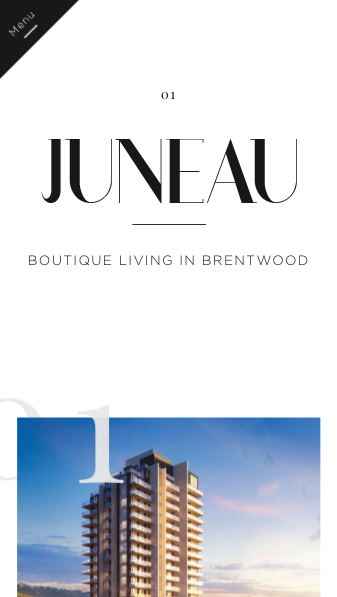
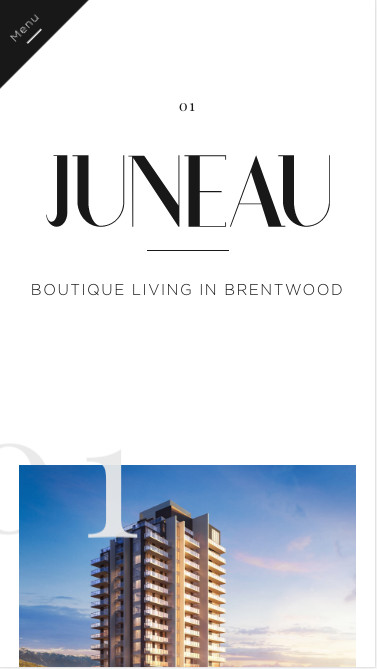
Project: Mobile pictures added

diff --git a/src/Components/ProjectTemplate/Template.js b/src/Components/ProjectTemplate/Template.js
@@ -27,7 +27,7 @@ const Title = styled.h1`
 `;
 
 const Banner = styled.div`
-  height: 60vh;
+  height: 40vh;
   width: 100%;
   margin: 30px 0;
   background-position: center center;
@@ -35,6 +35,9 @@ const Banner = styled.div`
   background-size: cover;
   /* background-color: rgba(0, 0, 0, 0.5); */
   /* background-blend-mode: multiply; */
+  @media (min-width: 768px) {
+    height: 60vh;
+  }
 `;
 
 const InfoContainer = styled.div`
@@ -44,6 +47,9 @@ const InfoContainer = styled.div`
   display: flex;
   flex-wrap: wrap;
   margin-top: 60px;
+  @media (min-width: 768px) {
+    margin-top: 100px;
+  }
   p {
     max-width: 580px;
     width: 100%;
@@ -107,7 +113,7 @@ const ButtonGradient = styled(Link)`
   background: linear-gradient(-134deg, #3fdfa4 0%, #3e45b9 100%);
   padding: 15px 30px;
   position: fixed;
-  right: 5%;
+  right: 4.9%;
   bottom: 0;
   color: #fff;
   z-index: 10;
@@ -130,7 +136,7 @@ const VideoContent = styled.div`
     z-index: 1;
     height: 63.5%;
     top: 5%;
-    width: 94.9%;
+    width: 100%;
     left: 50%;
     transform: translateX(-50%);
   }
@@ -144,7 +150,7 @@ const VideoContent = styled.div`
 
 const MobileContainer = styled.div`
   padding: 100px 0;
-  background-color: #000;
+  background-color: #3A3B3E;
   display: flex; 
   flex-flow: row wrap;
   justify-content: space-around;
@@ -164,7 +170,7 @@ const MobileContainer = styled.div`
   .screenshot {
     position: absolute;
     top: 50px;
-    left: 8px;
+    left: 12px;
     z-index: 1;
     max-width: 90%;
   }
@@ -237,7 +243,6 @@ class Template extends React.Component {
             <img className="screenshot" src={this.props.iphone[2]} alt=""/>
             <img className="iphone" src="./assets/img/iphone.png" alt="iPhone"/>
           </div>
-
         </MobileContainer>
       </ProjectTemplate>
     );

diff --git a/src/Pages/Projects/Juneau/Juneau.js b/src/Pages/Projects/Juneau/Juneau.js
@@ -5,6 +5,8 @@ import styled from 'styled-components';
 
 import Template from '../../../Components/ProjectTemplate';
 
+const pageName = 'juneau'
+
 class JuneauPage extends React.Component {
   constructor(props) {
     super(props);
@@ -43,9 +45,9 @@ class JuneauPage extends React.Component {
       buttonLink: 'https://amacon.com/juneau/',
       videoSrc: './assets/video/juneau.mp4',
       iphone: [
-        './assets/img/juneau/mobile-1.png',
-        './assets/img/juneau/mobile-2.png',
-        './assets/img/juneau/mobile-3.png',
+        `./assets/img/${pageName}/mobile-1.png`,
+        `./assets/img/${pageName}/mobile-2.png`,
+        `./assets/img/${pageName}/mobile-3.png`,
       ]
     };
   }

diff --git a/src/Pages/Projects/Landmark/Landmark.js b/src/Pages/Projects/Landmark/Landmark.js
@@ -44,6 +44,11 @@ class LandmarkPage extends React.Component {
       ],
       buttonLink: 'https://amacon.com/juneau/',
       videoSrc: `./assets/video/${pageName}.mp4`,
+      iphone: [
+        `./assets/img/${pageName}/mobile-1.png`,
+        `./assets/img/${pageName}/mobile-2.png`,
+        `./assets/img/${pageName}/mobile-3.png`,
+      ]
     };
   }
   render() {
@@ -56,6 +61,7 @@ class LandmarkPage extends React.Component {
           details={this.state.details}
           buttonLink={this.state.buttonLink}
           videoSrc={this.state.videoSrc}
+          iphone={this.state.iphone}
         />
       </section>
     );

diff --git a/src/Pages/Projects/Elenore/Elenore.js b/src/Pages/Projects/Elenore/Elenore.js
@@ -44,6 +44,11 @@ class ElenorePage extends React.Component {
       ],
       buttonLink: 'https://amacon.com/juneau/',
       videoSrc: `./assets/video/${pageName}.mp4`,
+      iphone: [
+        `./assets/img/${pageName}/mobile-1.png`,
+        `./assets/img/${pageName}/mobile-2.png`,
+        `./assets/img/${pageName}/mobile-3.png`,
+      ]
     };
   }
   render() {
@@ -56,6 +61,7 @@ class ElenorePage extends React.Component {
           details={this.state.details}
           buttonLink={this.state.buttonLink}
           videoSrc={this.state.videoSrc}
+          iphone={this.state.iphone}
         />
       </section>
     );

diff --git a/src/Pages/Projects/Gryphon/Gryphon.js b/src/Pages/Projects/Gryphon/Gryphon.js
@@ -44,6 +44,11 @@ class GryphonPage extends React.Component {
       ],
       buttonLink: 'https://amacon.com/juneau/',
       videoSrc: `./assets/video/${pageName}.mp4`,
+      iphone: [
+        `./assets/img/${pageName}/mobile-1.png`,
+        `./assets/img/${pageName}/mobile-2.png`,
+        `./assets/img/${pageName}/mobile-3.png`,
+      ]
     };
   }
   render() {
@@ -56,6 +61,7 @@ class GryphonPage extends React.Component {
           details={this.state.details}
           buttonLink={this.state.buttonLink}
           videoSrc={this.state.videoSrc}
+          iphone={this.state.iphone}
         />
       </section>
     );

diff --git a/src/Pages/Projects/Mccoll/Mccoll.js b/src/Pages/Projects/Mccoll/Mccoll.js
@@ -44,6 +44,11 @@ class MccollPage extends React.Component {
       ],
       buttonLink: 'https://amacon.com/juneau/',
       videoSrc: `./assets/video/${pageName}.mp4`,
+      iphone: [
+        `./assets/img/${pageName}/mobile-1.png`,
+        `./assets/img/${pageName}/mobile-2.png`,
+        `./assets/img/${pageName}/mobile-3.png`,
+      ]
     };
   }
   render() {
@@ -56,6 +61,7 @@ class MccollPage extends React.Component {
           details={this.state.details}
           buttonLink={this.state.buttonLink}
           videoSrc={this.state.videoSrc}
+          iphone={this.state.iphone}
         />
       </section>
     );

diff --git a/src/Pages/Projects/Salt/Salt.js b/src/Pages/Projects/Salt/Salt.js
@@ -44,6 +44,11 @@ class SaltPage extends React.Component {
       ],
       buttonLink: 'https://amacon.com/juneau/',
       videoSrc: `./assets/video/${pageName}.mp4`,
+      iphone: [
+        `./assets/img/${pageName}/mobile-1.png`,
+        `./assets/img/${pageName}/mobile-2.png`,
+        `./assets/img/${pageName}/mobile-3.png`,
+      ]
     };
   }
   render() {
@@ -56,6 +61,7 @@ class SaltPage extends React.Component {
           details={this.state.details}
           buttonLink={this.state.buttonLink}
           videoSrc={this.state.videoSrc}
+          iphone={this.state.iphone}
         />
       </section>
     );

diff --git a/src/App/AppMenu.js b/src/App/AppMenu.js
@@ -31,8 +31,8 @@ const Rectangle = styled.div`
   height: 100%;
   position: absolute;
   left: 0;
-  top: 50%;
-  transform: translateY(-50%);
+  top: 0;
+  /* transform: translateY(-50%); */
   @media (min-width: 768px) {
     width: 25%;
   }
